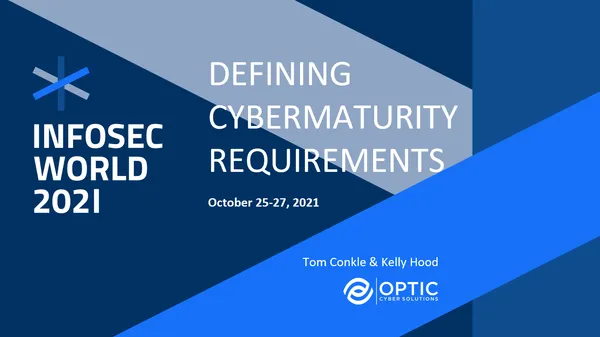
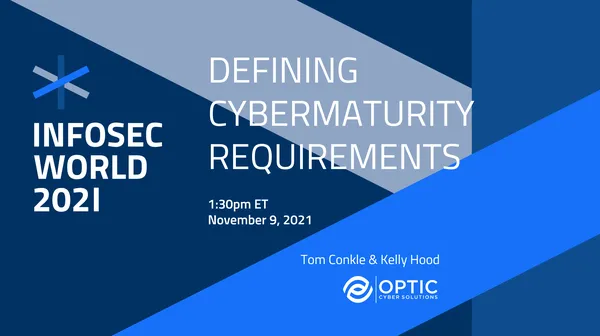
update infosec world date

diff --git a/resources.html b/resources.html
@@ -336,7 +336,7 @@
                                         <h5><a href="https://www.infosecworldusa.com/2021/program" target="_blank">
                                             Defining Cybermaturity Requirements
                                         </a></h5>
-                                        <i>InfoSec World, October 25 2021</i>
+                                        <i>InfoSec World, November 9 2021</i>
                                     </div>
                                 </div>
                             </div>

diff --git a/CHANGELOG.md b/CHANGELOG.md
@@ -8,6 +8,10 @@ format `YYYY.##`. For example, `2019.01` is the first release of 2019.
 
 ## [Unreleased]
 
+## [2021.18]
+### Changed
+- Update Infosec World date
+
 ## [2021.17]
 ### Changed
 - Restore picture on CMMC page
@@ -341,7 +345,8 @@ format `YYYY.##`. For example, `2019.01` is the first release of 2019.
 ### Added
 - One-page brochure-style website
 
-[Unreleased]: https://github.com/opticcyber/opticcyber.github.io/compare/2021.17...HEAD
+[Unreleased]: https://github.com/opticcyber/opticcyber.github.io/compare/2021.18...HEAD
+[2021.18]: https://github.com/opticcyber/opticcyber.github.io/releases/tag/2021.18
 [2021.17]: https://github.com/opticcyber/opticcyber.github.io/releases/tag/2021.17
 [2021.16]: https://github.com/opticcyber/opticcyber.github.io/releases/tag/2021.16
 [2021.15]: https://github.com/opticcyber/opticcyber.github.io/releases/tag/2021.15
